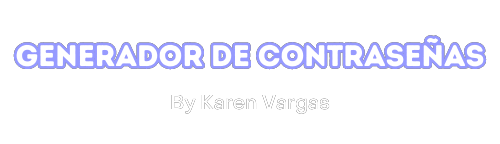
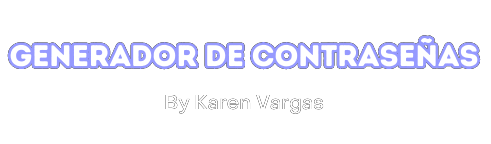
Arreglar Estilos

Changed region(s): [[0.0, 0.2222, 0.9776, 0.5], [0.336, 0.6667, 0.6721, 0.8056]]

diff --git a/css/styles.css b/css/styles.css
@@ -10,44 +10,39 @@
     padding: 0;
     margin: 0;
     font-family: informacion;
-    font-size: 20px;
+    font-size:20px;
 }
 
 *::selection{
-    background: rgba(198, 119, 251, 0.528);
+    background: #2671A6;
     color: aliceblue;
 }
 
 body{
     background: #174566;
     color: #fff;
+    overflow: hidden;
+
 }
 
 .contenedor{
     max-width: 500px;
     width: 90%;
-    margin: 40px auto;
+    margin: 10px auto;
+    border-radius: 10px;
+   background-color: rgba(32, 94, 138, 0.5); /* el último valor es la opacidad */
+   padding: 10px;
+
 }
 
 /*   Logotipos   */
 
 .logo{
-    width: 100px;
+    width: 50px;
     text-align: center;
 }
 
-.logo h1{
-    width: 100%;
-    vertical-align: top;
-}
 
-.contenedor{
-    border-radius: 10px;
-   background-color: rgba(32, 94, 138, 0.5); /* el último valor es la opacidad */
-   padding: 20px;
-
-
-}
 /*   Filas y Columnas   */
 
 .app .fila{
